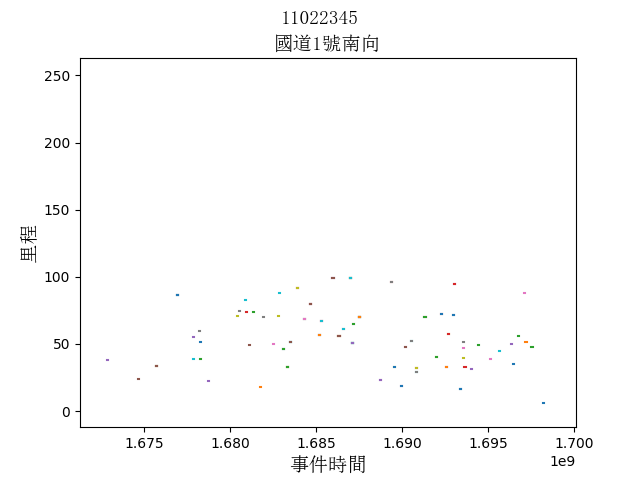
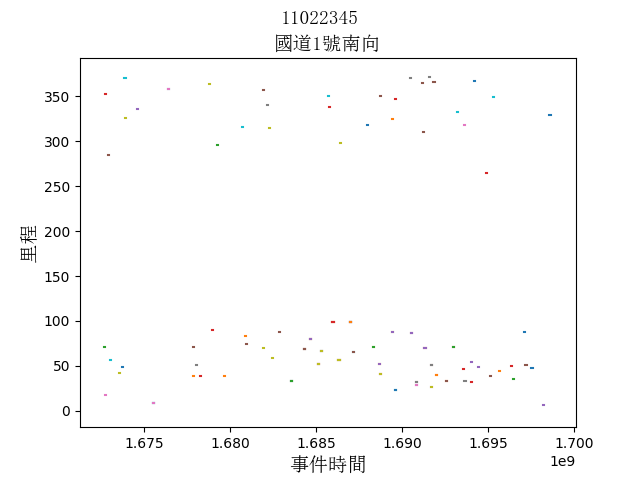
summuy2

diff --git a/20240312/11022345.py b/20240312/11022345.py
@@ -5,12 +5,9 @@ import numpy as np
 from matplotlib.font_manager import FontProperties
 # 讀取csv檔案，並將其轉換為DataFrame
 df = pd.read_csv('112年1-10月交通事故簡訊通報資料.csv', encoding='utf-8')
-df['國道名稱'] = df['國道名稱'].fillna('')
 # 選取包含"國道1號"的行
 df1 = df[df['國道名稱']=='國道1號']
-df2 = df1[df1['方向']=='南']
-# 印出選取的行
-print(df2)
+df2 = df1[(df1['方向']=='南') | (df1['方向']=='南向')]
 # 設定支援中文的字體
 font = FontProperties(fname=r"c:\windows\fonts\simsun.ttc", size=14)
 #把 欄位 '年' '月' '日' '時' '分'
@@ -40,7 +37,7 @@ plt.suptitle('11022345', fontproperties=font)
 plt.show()
 #-------------------------------------
 df1 = df[df['國道名稱']=='國道1號']
-df2 = df1[df1['方向']=='北']
+df2 = df1[(df1['方向']=='北') | (df1['方向']=='北向')]
 # 印出選取的行
 print(df2)
 # 設定支援中文的字體
@@ -72,7 +69,7 @@ plt.suptitle('11022345', fontproperties=font)
 plt.show()
 #-------------------------------------
 df1 = df[df['國道名稱']=='國道3號']
-df2 = df1[df1['方向']=='南']
+df2 = df1[(df1['方向']=='南') | (df1['方向']=='南向')]
 # 印出選取的行
 print(df2)
 # 設定支援中文的字體
@@ -104,7 +101,7 @@ plt.suptitle('11022345', fontproperties=font)
 plt.show()
 #-------------------------------------
 df1 = df[df['國道名稱']=='國道3號']
-df2 = df1[df1['方向']=='北']
+df2 = df1[(df1['方向']=='北') | (df1['方向']=='北向')]
 # 印出選取的行
 print(df2)
 # 設定支援中文的字體
